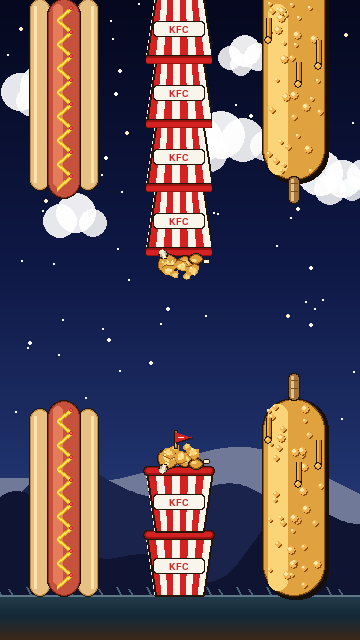
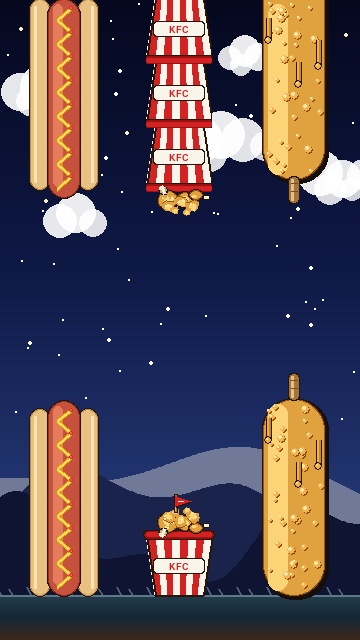
KFC bucket: revert the extra gap-tightening bucket (#15)
Earlier this branch added one extra non-collidable bucket per stack to
tighten the bucket variant's perceived gap (#13). Feedback: too much
fill - the visible gap now read tighter than the actual collision
boundary, which was visually misleading.

Roll draw_pillar_kfc_bucket back to passing the raw top_rect / bot_rect
straight into _stack_buckets. The variant returns to its
post-KFC_GAP_BOOST visual where the topmost bucket's rim sits right at
the collision gap edge and the chicken pile + flag are the only things
that extend into the gap. That matches what the gap_h reward delivers.

Re-rendered docs/kfc_powerup/{kfc_mix_a,kfc_mix_b,gap_comparison}.png
against the rolled-back logic.

Changed region(s): [[0.3972, 0.6562, 0.6111, 0.8438], [0.3972, 0.2812, 0.6111, 0.4375]]

diff --git a/game/pillar_kfc.py b/game/pillar_kfc.py
@@ -489,21 +489,9 @@ def _stack_buckets(surf, rect, *, gap_side, label="KFC", bucket_h=64,
 
 
 def draw_pillar_kfc_bucket(surf, top_rect, bot_rect, palette, seed):
-    # Extend each stack's render rect by one bucket_h toward the gap so an
-    # extra non-collidable bucket protrudes into the gap area. Tightens
-    # the bucket variant's perceived gap (which otherwise looks too open
-    # vs the hot dog / corn dog / sandwich variants - they have a
-    # sausage / stick / skewer poking into the gap). Pipe.top_rect /
-    # bot_rect are unchanged, so the actual collision gap is the same
-    # KFC_GAP_BOOST x base; only the visual silhouette tightens.
-    bucket_h = 64
-    top_ext = pygame.Rect(top_rect.x, top_rect.y,
-                          top_rect.width, top_rect.height + bucket_h)
-    bot_ext = pygame.Rect(bot_rect.x, bot_rect.y - bucket_h,
-                          bot_rect.width, bot_rect.height + bucket_h)
-    _stack_buckets(surf, top_ext, gap_side='bottom', bucket_h=bucket_h,
+    _stack_buckets(surf, top_rect, gap_side='bottom', bucket_h=64,
                    seed=seed + 100)
-    _stack_buckets(surf, bot_ext, gap_side='top', bucket_h=bucket_h,
+    _stack_buckets(surf, bot_rect, gap_side='top', bucket_h=64,
                    seed=seed, with_flag=True)
 
 
